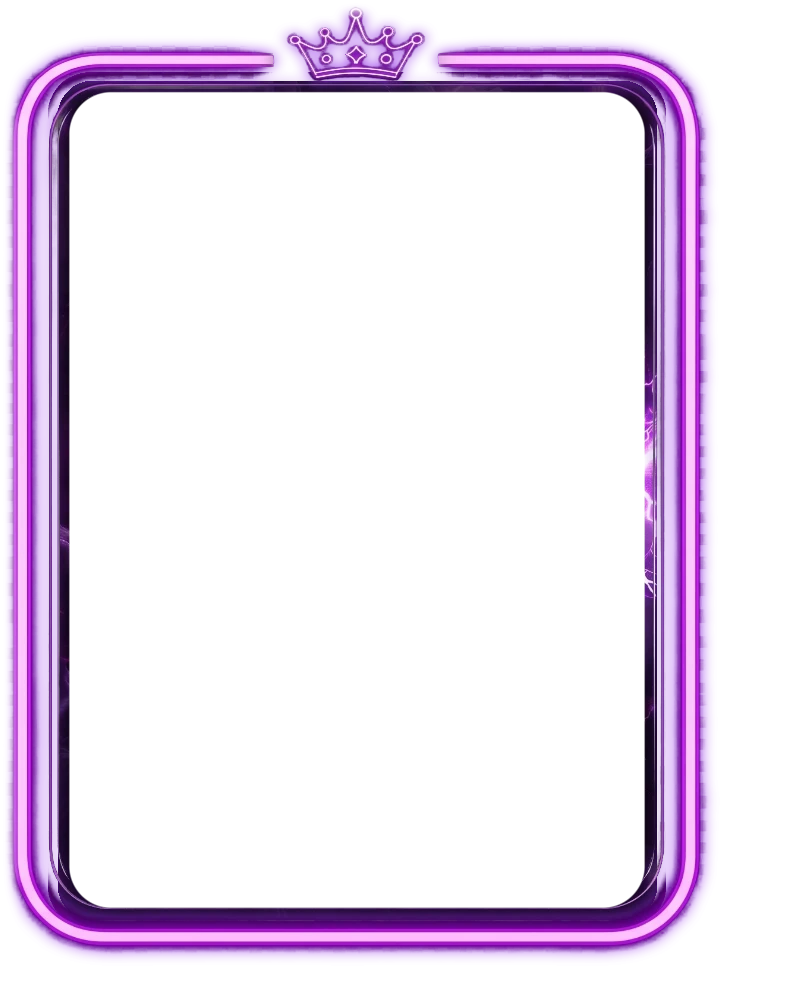
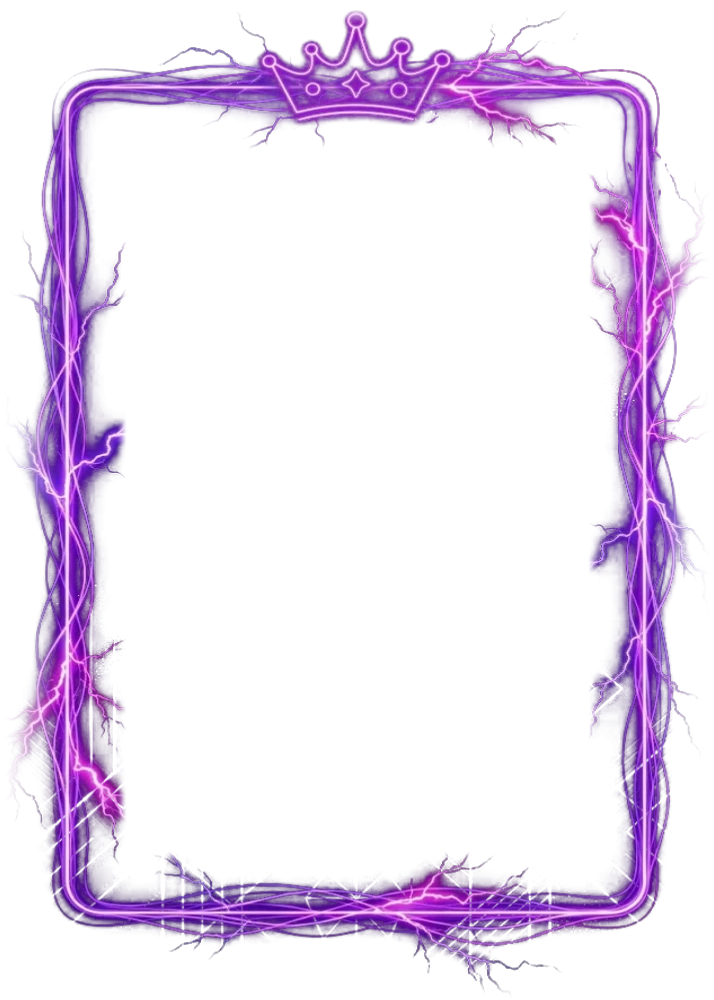
simplify the Time do Mes card with a pattern background, lightning frame on top and a running LED energy

diff --git a/components/cancha-card.tsx b/components/cancha-card.tsx
@@ -77,6 +77,10 @@ export type Roupa = {
   innerBolts?: string;
   /** Os raios (`innerBolts` e `overflowBolts`) ficam parados, sem animação. */
   still?: boolean;
+  /** Sobe e afasta das laterais os números das estatísticas (em cqw), para a moldura da arte não passar por cima deles. */
+  statsInset?: { bottom: number; side: number };
+  /** Energia correndo em volta da moldura: `${prefixo}-0` a `${prefixo}-(N-1)`, setores em ordem horária que acendem um depois do outro. */
+  runners?: { prefix: string; count: number; seconds: number };
   /** Os raios acendem forte e esmaecem devagar (`cc-thunder-glow`), em vez do estalo curto. */
   glow?: boolean;
 };
@@ -146,18 +150,18 @@ const HIGHLIGHT_COLORS: Record<CardThemeKey, AwardColors> = {
 const HIGHLIGHT_ART = new Set<AwardKind>(["atacante", "criativo", "defensor", "goleiro", "gol", "foguete", "garcom", "drible", "motor"]);
 
 /**
- * Time do Mês: a arte do dono do app de 2026-11-02 (tubo de neon roxo com a coroa, painel de vidro e tempestade roxa).
+ * Time do Mês: fundo de padrão art déco roxo e moldura de neon com a coroa e raios do Gemini por cima do conteúdo (2026-11-04).
  * Não veste o tema do mês (`hasSeasonalTheme`). As cartas de outubro seguem no cristal (`MONTH_ROUPA_CRISTAL`).
  */
 const MONTH_ROUPA: Roupa = {
-  // Arte do dono do app em camadas (2026-11-02): neon roxo com a coroa, tempestade roxa e um aglomerado de raios por cima da moldura
-  // que muda de intensidade, sem apagar (`prototipos/premio-time-do-mes.cjs`).
+  // Versão simples (2026-11-04): neon roxo com a coroa sobre um fundo de padrão geométrico art déco, sem render nem animação
+  // (`prototipos/premio-time-do-mes-v3.cjs`).
   background: "premium-time-do-mes",
   overflow: "premium-time-do-mes-vaza",
-  overflowWidth: 790 / 714,
-  overflowBolts: "premium-time-do-mes-raios",
-  innerBolts: "premium-time-do-mes-raios-dentro",
-  still: true,
+  window: "ring",
+  windowRadius: 7,
+  statsInset: { bottom: 3.2, side: 3.5 },
+  runners: { prefix: "premium-time-do-mes-corre", count: 24, seconds: 3.2 },
   artFrame: true,
   clean: true,
   metal: ["#b8902f", "#b8902f", "#fff1c2"],
@@ -201,6 +205,10 @@ const MONTH_ROUPA_CRISTAL: Roupa = {
   overflowBolts: undefined,
   innerBolts: undefined,
   still: false,
+  window: undefined,
+  windowRadius: undefined,
+  statsInset: undefined,
+  runners: undefined,
   artFrame: false,
   clean: false,
 };
@@ -824,7 +832,10 @@ export function CanchaCard({ player, award, className, photoSizes, photoFrame = 
           {band}
         </span>
 
-        <dl className="absolute inset-x-0 bottom-0 z-[8] grid h-[12%] grid-cols-3 border-t-[0.6cqw] border-(--cc-accent) bg-(--cc-bar)">
+        <dl
+          className="absolute inset-x-0 bottom-0 z-[8] grid h-[12%] grid-cols-3 border-t-[0.6cqw] border-(--cc-accent) bg-(--cc-bar)"
+          style={roupa.statsInset ? { paddingBottom: `${roupa.statsInset.bottom}cqw`, paddingInline: `${roupa.statsInset.side}cqw` } : undefined}
+        >
           {stats.map((stat, index) => (
             <div
               key={stat.label}
@@ -862,6 +873,11 @@ export function CanchaCard({ player, award, className, photoSizes, photoFrame = 
         // eslint-disable-next-line @next/next/no-img-element -- arte decorativa do tamanho da caixa, sem otimizar
         <img aria-hidden alt="" src={`/cartas/fundos/${roupa.overflow}.webp`} className={cn("pointer-events-none absolute top-0 left-0 z-[11] h-full select-none", roupa.overflowWidth ? "max-w-none" : "w-full")} style={roupa.overflowWidth ? { width: `${roupa.overflowWidth * 100}%`, left: `${-(roupa.overflowLeft ?? 0) * 100}%` } : undefined} />
       )}
+      {roupa.runners && Array.from({ length: roupa.runners.count }, (_, index) => (
+        // Energia em volta da moldura: cada setor acende no seu tempo (só `opacity`; com movimento reduzido, fica apagado).
+        // eslint-disable-next-line @next/next/no-img-element -- arte decorativa do tamanho da caixa, sem otimizar
+        <img key={index} aria-hidden alt="" src={`/cartas/fundos/${roupa.runners!.prefix}-${index}.webp`} className="pointer-events-none absolute top-0 left-0 z-[12] h-full w-full opacity-0 select-none motion-reduce:hidden" style={{ animation: `cc-energy-run ${roupa.runners!.seconds}s linear infinite`, animationDelay: `${(index / roupa.runners!.count) * roupa.runners!.seconds}s` }} />
+      ))}
       {roupa.overflowBolts && (
         // Os raios das decorações estalam como trovão (só `opacity`; com movimento reduzido, ficam acesos).
         // eslint-disable-next-line @next/next/no-img-element -- arte decorativa do tamanho da caixa, sem otimizar

diff --git a/app/globals.css b/app/globals.css
@@ -351,6 +351,12 @@
   14% { opacity: 0; }
 }
 /* Lenda do Trovão: a camada extra dos raios acende forte, dá um segundo clarão e vai esmaecendo devagar (fica visível quase metade do ciclo). */
+/* Energia correndo em volta da moldura do Time do Mês (efeito LED): cada setor sobe e desce devagar, sem piscar; o atraso de cada um faz o brilho dar a volta, com cauda. */
+@keyframes cc-energy-run {
+  0%, 100% { opacity: 0; }
+  10% { opacity: 1; }
+  40% { opacity: 0; }
+}
 @keyframes cc-thunder-glow {
   0%, 100% { opacity: 0; }
   3% { opacity: 1; }

diff --git a/.claude/rules/design-system.md b/.claude/rules/design-system.md
@@ -47,7 +47,7 @@ Desde 2026-10-29 todas as cartas usam a `CanchaCard` (o `PlayerCard` a chama). A
 - **Prêmios:** Melhor Jogador com a taça ao lado do jogador nos eventos e, fora deles, o **sol art déco** (aprovado pelo dono do app em 2026-10-31, a partir das referências de sol dele: metal escovado escuro com o sol gravado em sulcos acesos de ouro atrás da cabeça, como uma auréola, na força cheia; o dono testou versões em marca d'água e preferiu a acesa; descartados o pôr do sol em faixas e o sol em chamas; `prototipos/craque-sol.cjs`). **Destaques fora de evento: a água** (aprovado pelo dono do app em 2026-10-31, a partir das referências dele): **mármore líquido** em azul-marinho escuro (faixas em dois tons com um fio claro na borda, `premio-destaque-agua`, `prototipos/destaques-agua.cjs`; descartadas as cáusticas e a topografia), um fundo só para todos, **sem o ícone do prêmio** (o que distingue é a faixa com o nome), e no topo a **nuvem chovendo em neon** (o ícone que o dono mandou: nuvem fechada e quatro pingos inclinados, `NEON_TRIMS.chuva`) com o traço curto na base, destaques (Atacante, Criativo, Defensor, Goleiro, Gol) com o ícone do prêmio ao lado, vestindo o tema do mês; moldura em neon na cor do prêmio, com um **traço curto com a pontinha para baixo no meio da base** (`NEON_TRIMS.destaque`) e, no Halloween, também uma **abóbora acesa no centro do topo** (`NEON_TRIMS.abobora`, no lugar da teia de antes). O Time da Semana antigo (fora do jogo) usa neon dourado e a mesma regra. **Enfeites mais neon** (2026-10-29): todo enfeite tem o miolo quase branco (`NEON_CORE`) e halo mais forte, como o tubo da moldura.
 - **Time do Mês a partir de novembro de 2026:** os 5 primeiros do ranking de pontos do mês (a carta continua a mesma); o rodapé do resultado mostra "N pontos no mês" no lugar da média.
 - **Campeão do Mês (2026-11-02, arte do dono do app no Gemini, uma imagem só; a carta de quem vence o ranking de pontos do mês, a primeira será a de novembro de 2026):** tempestade azul e laranja num cartão de **fio de ouro fino**, **neon azul contínuo por fora** (a arte veio com uma emenda no meio do topo e da base e duas cores, ciano e azul-royal; foram arrumadas à mão: a metade ciano girou para o azul e o vão foi fechado), o **louro de platina no centro do topo** (detalhe que o dono mandou separado, ampliado 2x, com um vão no neon e uma sombra suave) e um **aglomerado de cristais com nuvem e raios** que passa por cima da moldura pela direita. `prototipos/campeao-mes.cjs` (a partir da `premium-icone.cjs`; a arte arrumada fica em `campeao-mes-dono.jpg`): a caixa da carta é o lado de DENTRO do ouro (x 177 a 1165, y 309 a 1695 da arte, quase exatamente 5:7) aberto 0,9% e 0,65% (as folgas da janela `ring`), raio de canto da janela 8,6cqw (o de dentro do ouro mede ~87 px). **Animação dos raios (pedido do dono do app, 2026-11-02):** a mesma da Lenda, duas camadas extras só com os raios (achados pelo contraste local e pelo brilho, só a tempestade de dentro do ouro e o trecho do aglomerado que sai da carta; o neon, o ouro, o louro e o contorno das nuvens ficam de fora), `campeao-mes-raios-dentro.webp` (atrás do jogador) e `campeao-mes-raios.webp` (por cima da moldura), que acendem forte e esmaecem devagar (`cc-thunder-glow`, `glow: true`, só `opacity`, parada com movimento reduzido); a arte continua com os raios sempre à vista. Roupa `CAMPEAO_MES` (`window: "ring"`, `artFrame`, `clean`, `overflowWidth` 774/714), visual `campeao_do_mes` em `awardDesignKind`. Tipo, texto, ícone (troféu), bônus (+1 em tudo), XP e moedas (como o Time do Mês) e a roupa já estão no código; **falta a regra que concede a carta** (a migration que a calcula do ranking de pontos, ainda por combinar: empate e dia).
-- **Time do Mês (2026-11-02, refeito com as peças separadas do Gemini; a primeira versão, de uma arte achatada, tinha o render "feio", dizia o dono):** três imagens do mesmo tamanho e com a carta no mesmo lugar: o fundo (tempestade roxa, já com um clarão de raios), a borda (tubo de **neon roxo** com a **coroa** e o aro de vidro) e o render (o aglomerado de raios sobre preto, que passa por cima da moldura pela direita). `prototipos/premio-time-do-mes.cjs`: fundo → borda → render, sem separar nem preencher nada. **A borda veio com um xadrez cinza assado na imagem** (o "fundo transparente" falso): o tubo, a coroa e o aro saem pela cor e pelo brilho, e o **brilho em volta é refeito como um desfoque da própria borda, em roxo** (o original vinha misturado ao xadrez e aparecia em blocos). O render ganha alfa pelo brilho (a cor sai junto, na mesma proporção) e esmaece nos últimos px da imagem (ele vem cortado reto na borda direita). **Sem animação** (`still: true`): o dono viu o raio variando de intensidade (`cc-bolt-pulse`, entre 45% e 100%), o raio acendendo de uma ponta à outra e o raio apagando por inteiro, e achou todas ruins; o render de dentro (`innerBolts`, atrás do jogador) e o de fora (`overflowBolts`, por cima da moldura) ficam parados. Roupa com `artFrame`, `clean` e `overflowWidth` 790/714. **As cartas ganhas em outubro continuam no cristal roxo com a coroa** (`MONTH_ROUPA_CRISTAL`, tema `halloween`). **Bola Murcha:** o **alagamento** (aprovado pelo dono do app em 2026-10-31, no lugar do bronze oxidado): parede escura escorrendo água em cima e **água barrenta subindo** até a metade da carta, com bolhas e a bola murcha **boiando na linha da água** ao lado do jogador (anéis de onda e o reflexo apagado; descartadas as poças no chão e a quadra alagada; `prototipos/murcha-alagamento.cjs`), fosca, **neon apagado** (`neonDim`) e sem enfeite.
+- **Time do Mês (2026-11-04, simplificado a pedido do dono do app: "sem render, só um fundo com padrão"; a versão com pedra e raios de 2026-11-02 e a de 2026-11-04 com a pedra saíram):** duas peças do Gemini no mesmo tamanho, 687 × 1024: o **fundo** (padrão geométrico art déco em roxo, `time-do-mes-v3-fundo-dono.jpg`) e a **moldura** (tubo de neon roxo ondulado, coroa no topo e raios saindo para fora, `time-do-mes-v3-borda-dono.jpg`; a arte já traz o padrão assado dentro). `prototipos/premio-time-do-mes-v3.cjs`: o **conteúdo ocupa a carta toda, até o tubo** (`window: "ring"`, `windowRadius` 7; a caixa da carta é o lado de fora do tubo, esticada ~13% na horizontal porque a moldura veio mais estreita que 5:7) e a **moldura inteira vai POR CIMA** (`-vaza`, só luz: alfa pelo brilho **depois de subtrair o fundo**, que está na mesma posição; a máscara por distância da borda cortava a coroa e os raios, o dono viu). `statsInset` (campo da roupa) sobe e afasta das laterais as 3 estatísticas para o tubo não passar por cima dos números. **Energia correndo em volta (efeito LED, 2026-11-04):** 24 setores em ordem horária (`premium-time-do-mes-corre-N.webp`, `runners` na roupa) com o fio do raio e do tubo num roxo mais vivo, **só o núcleo claro** (o halo fica de fora: o brilho não pode iluminar mais largo que o fio, pedido do dono), que sobem e descem devagar em sequência (`cc-energy-run`, 3,2 s por volta, só `opacity`, escondidos com movimento reduzido). **Armadilha:** o `next dev` serviu o `globals.css` velho e a animação não rodava (`document.getAnimations()` vazio); apagar `.next` e reiniciar resolveu. **As cartas de outubro seguem no cristal roxo com a coroa** (`MONTH_ROUPA_CRISTAL` zera `window`, `statsInset` e `runners`).
 - **Brilho e enfeite do neon num SVG ao lado da carta** (`NeonOverlay`, 2026-10-29): o halo são traços do contorno, não `box-shadow`, e o lado direito do enfeite é espelhado no código (`mirrorPath`), sem `transform`. A captura do story no iPhone (`modern-screenshot`) desenhava a sombra como um bloco de cor e cortava o que passava da carta.
 - **Cartas já ganhas não mudam de desenho** (pedido do dono do app em 2026-10-31): Time do Mês e Bola Murcha não vestem o tema do mês, mas trocaram de desenho em 2026-10-31; as ganhas antes (gravadas com o tema `halloween`) continuam com o cristal roxo com a coroa (`premio-time-do-mes-cristal`) e o bronze oxidado (`premio-bola-murcha-bronze`). Ao trocar o desenho de um prêmio, guarde o antigo e escolha pelo tema gravado na carta.
 - **Carta de neon** (skins, prêmios, Time do Mês e Bola Murcha, com ou sem enfeite) ocupa os 84% do meio da própria caixa (`TRIMMED_CARD`), e o enfeite e o brilho usam a sobra: nunca encostam em margem nem na carta do lado, e os prêmios ficam do mesmo tamanho lado a lado. Por isso aparecem um pouco menores que a carta padrão (metal).

diff --git a/CLAUDE.md b/CLAUDE.md
@@ -16,7 +16,7 @@ Design mobile-first é inegociável: a interação principal (dar notas no vesti
 
 **Foco do produto:** é um "fantasy" da pelada: nota, carta, OVR e sorteio. Confirmação de presença e placar ficam no WhatsApp; não construa gestão de pelada além do necessário.
 
-**Carta com identidade própria (versão 2.0.0, 2026-10-29, decisão do dono do app: sair do visual do EA FC):** `components/cancha-card.tsx` (`CanchaCard`, usada pelo `PlayerCard`; o desenho antigo ficou em `LegacyPlayerCard`): retangular 5:7, 3 estatísticas no rodapé, patentes Peneira/Base/Profissional/Seleção/Lenda (`lib/card-rank.ts`, pelos mesmos cortes de OVR das faixas), carta padrão em grafite fosco com moldura fina de metal polido, skins premium (Esmeralda, Safira, Ametista e Rubi com a **arte de cristais gerada pelo dono no Gemini, uma só para as quatro, que muda só o tom dos azuis** (desde 2026-11-01; fio de ouro, neon concêntrico e um aglomerado de cristais que passa por cima da moldura; `prototipos/premium-v2.cjs`); a **Nuvem carregada** (nível 3, evento Toró) com a arte de tempestade do Gemini, **raios separados que acendem e apagam como trovão** (`innerBolts` atrás do jogador e `overflowBolts` por cima da moldura; `prototipos/premium-nuvem.cjs`; a moldura elétrica e os mini raios em código saíram), e a **Ícone** com a arte de mármore branco-creme, quartzo e diamantes do Gemini, **sem sombras por cima do fundo** (`clean`), desde 2026-11-01, `prototipos/premium-icone.cjs`; Turquesa e Ônix saíram) e Time do Mês (arte do dono do app de 2026-11-02 em camadas separadas do Gemini: neon roxo com coroa, tempestade roxa e raios parados (o dono achou ruins as animações que testamos); as de outubro ficam no cristal) em **tubo de neon** com o enfeite que abraça a base, Lobisomem (garras e presas) e Vampiro (morcego e asa) com enfeite próprio, prêmios em neon sem enfeite e a Bola Murcha em neon apagado. Fundos em `public/cartas/fundos/`, gerados pelos scripts de `docs/superpowers/specs/2026-10-28-cartas-assets/prototipos/`. Decisões em `docs/superpowers/specs/2026-10-28-cartas-identidade-propria-design.md` e no design-system.
+**Carta com identidade própria (versão 2.0.0, 2026-10-29, decisão do dono do app: sair do visual do EA FC):** `components/cancha-card.tsx` (`CanchaCard`, usada pelo `PlayerCard`; o desenho antigo ficou em `LegacyPlayerCard`): retangular 5:7, 3 estatísticas no rodapé, patentes Peneira/Base/Profissional/Seleção/Lenda (`lib/card-rank.ts`, pelos mesmos cortes de OVR das faixas), carta padrão em grafite fosco com moldura fina de metal polido, skins premium (Esmeralda, Safira, Ametista e Rubi com a **arte de cristais gerada pelo dono no Gemini, uma só para as quatro, que muda só o tom dos azuis** (desde 2026-11-01; fio de ouro, neon concêntrico e um aglomerado de cristais que passa por cima da moldura; `prototipos/premium-v2.cjs`); a **Nuvem carregada** (nível 3, evento Toró) com a arte de tempestade do Gemini, **raios separados que acendem e apagam como trovão** (`innerBolts` atrás do jogador e `overflowBolts` por cima da moldura; `prototipos/premium-nuvem.cjs`; a moldura elétrica e os mini raios em código saíram), e a **Ícone** com a arte de mármore branco-creme, quartzo e diamantes do Gemini, **sem sombras por cima do fundo** (`clean`), desde 2026-11-01, `prototipos/premium-icone.cjs`; Turquesa e Ônix saíram) e Time do Mês (2026-11-04, simplificado a pedido do dono do app, sem render: fundo de padrão art déco roxo e moldura de neon com a coroa e raios do Gemini **por cima do conteúdo**, com uma **energia em LED correndo em volta** da moldura, 24 setores que acendem em sequência; as de outubro ficam no cristal) em **tubo de neon** com o enfeite que abraça a base, Lobisomem (garras e presas) e Vampiro (morcego e asa) com enfeite próprio, prêmios em neon sem enfeite e a Bola Murcha em neon apagado. Fundos em `public/cartas/fundos/`, gerados pelos scripts de `docs/superpowers/specs/2026-10-28-cartas-assets/prototipos/`. Decisões em `docs/superpowers/specs/2026-10-28-cartas-identidade-propria-design.md` e no design-system.
 
 **Design system:** todas as decisões visuais e de UX (tema, paleta, raridade, anatomia da carta, atributos de linha/goleiro, foto, tela de notas, Draft) estão em `.claude/rules/design-system.md` (carregado automaticamente). Leia antes de criar UI.
 
@@ -140,3 +140,11 @@ Desenvolvimento no VS Code + WSL (Ubuntu), com Node 20 via nvm. Se o Claude roda
 - **`onnxruntime-node` (recorte no servidor):** o `.npmrc` pula o download do CUDA (`onnxruntime-node-install=skip`). O `next.config.ts` inclui à mão nos pacotes de `/elenco` e `/eu` (as duas trocam foto) o modelo (`models/`) e a `libonnxruntime.so.1` (o rastreio não enxerga nenhum dos dois) e corta os binários de macOS/Windows/ARM; a função fica com ~105MB (limite da Vercel: 250MB). Atualizar o pacote: confira de novo o `.nft.json` de `/elenco` e de `/eu`.
 - **Bug visual só no iPhone:** reproduza no WebKit do Playwright (motor do Safari). No Ubuntu 26.04 ele não é suportado oficialmente: instale com `PLAYWRIGHT_HOST_PLATFORM_OVERRIDE=ubuntu24.04-x64 npx playwright install webkit`, copie `libicu74`, `libxml2` e `libvpx9` do Ubuntu 24.04 (extraídos dos `.deb`, sem sudo) para `~/.cache/ms-playwright/webkit-*/minibrowser-wpe/sys/lib/` e rode com `PLAYWRIGHT_SKIP_VALIDATE_HOST_REQUIREMENTS=1`. Na carta, evite `mix-blend-mode` e máscaras com `url(...)` da foto: no iPhone viram um retângulo com faixas (o WebKit do Playwright só reproduz o caso do `mix-blend-mode`).
 - Editando de fora do WSL, o `next dev` às vezes continua servindo o `globals.css` antigo (cache do loader do Tailwind): as classes novas aparecem, mas as variáveis de `:root` ficam velhas. Se token novo não aparecer, confira com `npm run build` (ou `npx next start -p 3100` para ver) e reinicie o dev.
+
+## 💰 Economia de contexto
+- Antes de ler um arquivo inteiro, procure com grep e leia apenas o que precisar.
+- Para explorar o projeto, use um subagente e traga apenas o resumo.
+- Mostre o diff, não o arquivo completo.
+- Não repita o que já decidimos nesta sessão.
+- Se mudarmos de tarefa, proponha /compact ou uma nova sessão.
+- Respostas curtas por padrão.
